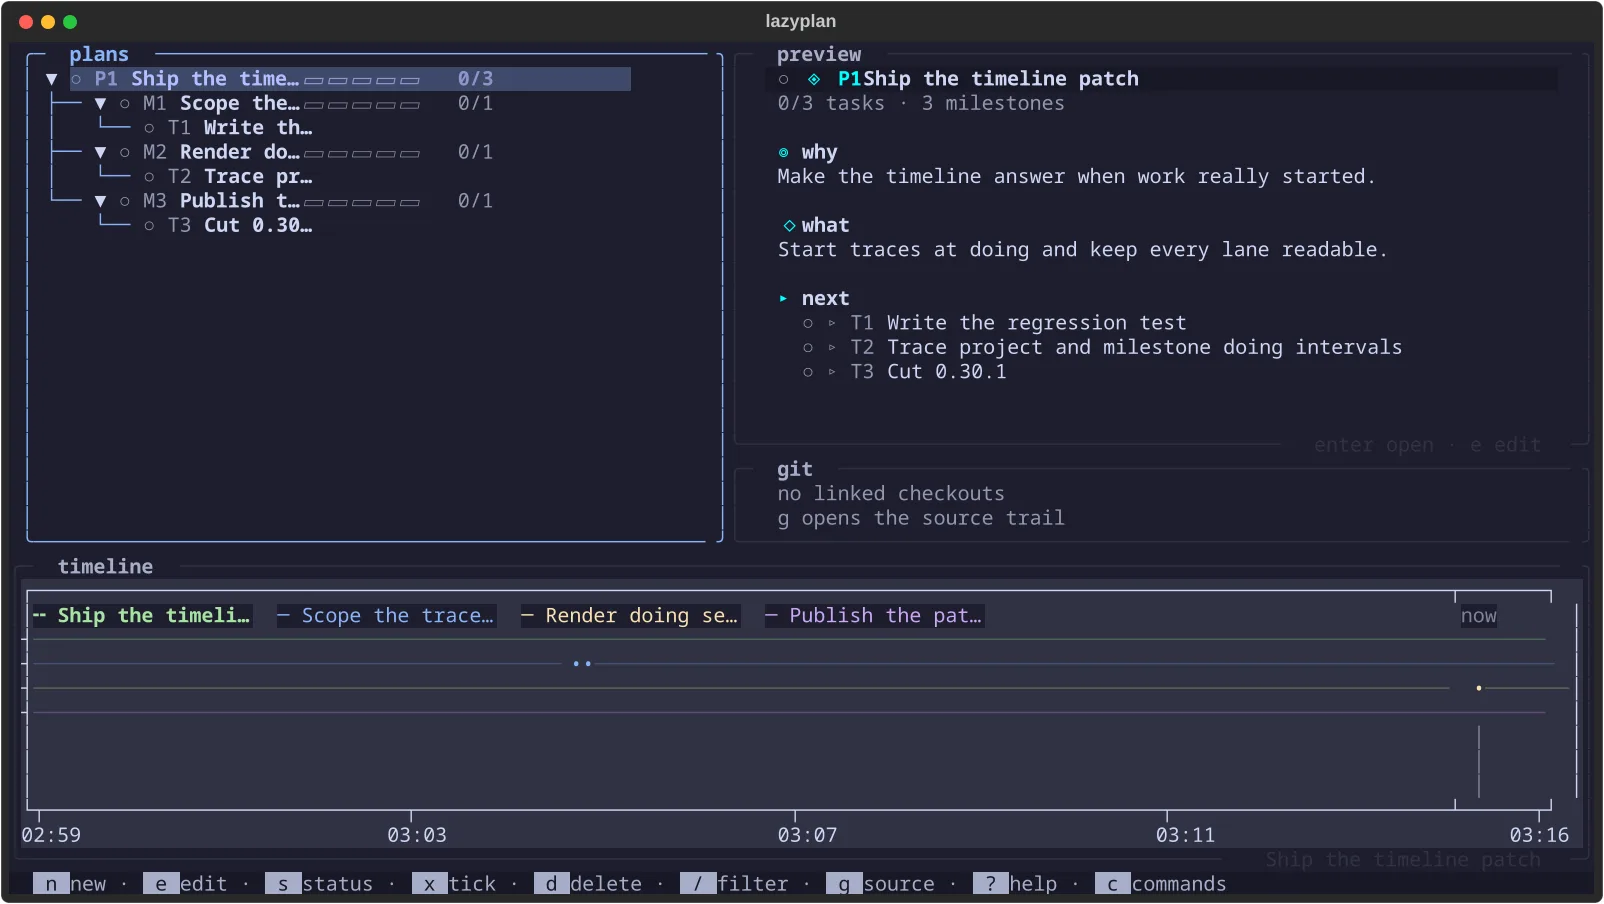
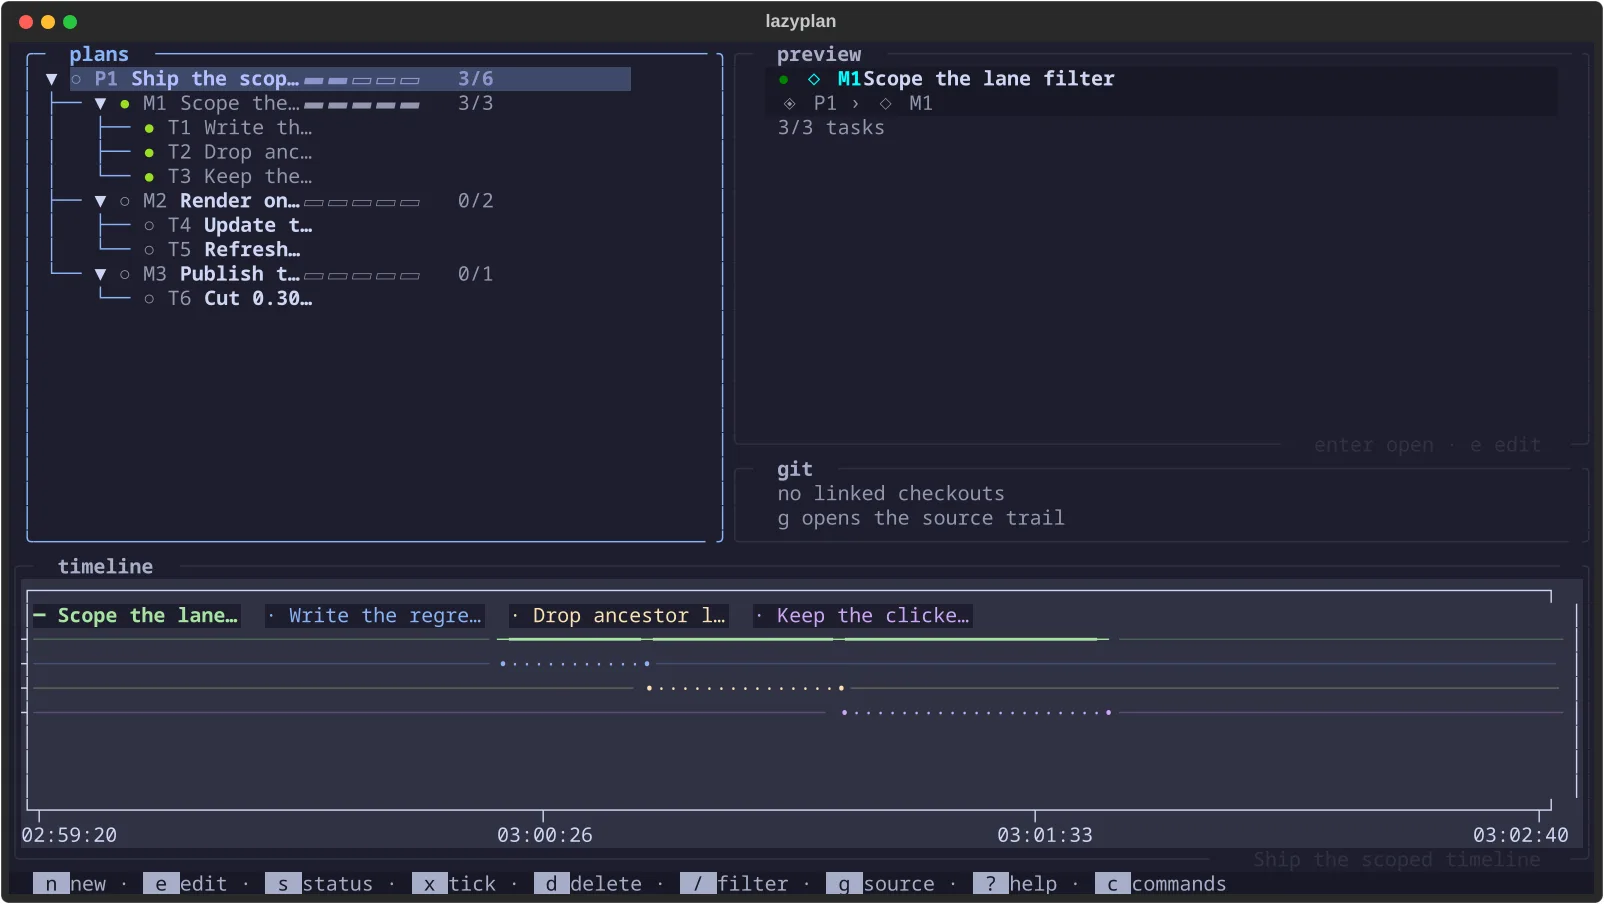
site: capture the timeline with a milestone selected

diff --git a/tools/capture-screens.py b/tools/capture-screens.py
@@ -41,7 +41,7 @@ from lazyplan.core.entities import Status  # noqa: E402
 from lazyplan.presentation.tui import create_app  # noqa: E402
 from lazyplan.presentation.tui.screens import DetailScreen, PaletteScreen  # noqa: E402
 from lazyplan.presentation.tui.screens.source import SourceScreen  # noqa: E402
-from lazyplan.services import metrics
+from lazyplan.services import metrics  # noqa: E402
 from lazyplan.store import Store  # noqa: E402
 
 SIZE = (130, 35)
@@ -159,28 +159,35 @@ def build_source_fixture(tmp: Path) -> Store:
 
 
 def build_timeline_fixture(tmp: Path) -> Store:
-    """Sequential milestones with doing intervals, a pause, and untouched work."""
+    """A plan with sequential milestones and tasks for the scoped timeline shot."""
     store = Store(str(tmp / "plan.db"))
     plan = store.add_plan(
-        "Ship the timeline patch",
-        "Start traces at doing and keep every lane readable.",
-        goal="Make the timeline answer when work really started.",
+        "Ship the scoped timeline",
+        "Show only the clicked row and its immediate children.",
+        goal="Keep the timeline focused on the work in front of you.",
     )
-    first = store.add_milestone(plan.id, "Scope the trace fix")
-    second = store.add_milestone(plan.id, "Render doing segments")
+    first = store.add_milestone(plan.id, "Scope the lane filter")
+    second = store.add_milestone(plan.id, "Render one row at a time")
     third = store.add_milestone(plan.id, "Publish the patch")
-    store.add_task(first.id, "Write the regression test")
-    store.add_task(second.id, "Trace project and milestone doing intervals")
-    store.add_task(third.id, "Cut 0.30.1")
+    regression = store.add_task(first.id, "Write the regression test")
+    drop = store.add_task(first.id, "Drop ancestor lanes")
+    bold = store.add_task(first.id, "Keep the clicked lane bold")
+    store.add_task(second.id, "Update the empty copy")
+    store.add_task(second.id, "Refresh the screenshot")
+    store.add_task(third.id, "Cut 0.30.3")
 
     def at(stamp: float, action: Callable[[], object]) -> object:
         with mock.patch("lazyplan.store.base.time.time", return_value=stamp):
             return action()
 
-    at(STAMP + 300, lambda: services.set_status(store, "milestone", first.id, Status.DOING))
-    at(STAMP + 600, lambda: services.set_status(store, "milestone", first.id, Status.DONE))
-    at(STAMP + 900, lambda: services.set_status(store, "milestone", second.id, Status.DOING))
-    at(STAMP + 1_200, lambda: services.set_status(store, "milestone", second.id, Status.DONE))
+    at(STAMP + 20, lambda: services.set_status(store, "task", regression.id, Status.DOING))
+    at(STAMP + 40, lambda: services.set_status(store, "task", regression.id, Status.DONE))
+    at(STAMP + 20, lambda: services.set_status(store, "milestone", first.id, Status.DOING))
+    at(STAMP + 40, lambda: services.set_status(store, "task", drop.id, Status.DOING))
+    at(STAMP + 65, lambda: services.set_status(store, "task", drop.id, Status.DONE))
+    at(STAMP + 65, lambda: services.set_status(store, "task", bold.id, Status.DOING))
+    at(STAMP + 100, lambda: services.set_status(store, "milestone", first.id, Status.DONE))
+    at(STAMP + 100, lambda: services.set_status(store, "task", bold.id, Status.DONE))
     return store
 
 
@@ -379,22 +386,20 @@ async def capture_theme_latte(store: Store, target: Path) -> None:
 
 
 async def capture_timeline(store: Store, target: Path) -> None:
-    """Capture the shell with a plan selected so every milestone lane is visible."""
+    """Capture the shell with a milestone selected so only its task lanes show."""
     app = create_app(str(store.path))
     async with app.run_test(size=SIZE) as pilot:
         await pilot.pause()
         tree = app.query_one("#tree", Tree)
         _expand_all(tree)
         tree.focus()
-        plans = _nodes(tree, "plan")
-        if plans:
-            tree.select_node(plans[0])
+        milestones = _nodes(tree, "milestone")
+        if milestones:
+            tree.select_node(milestones[0])
             await pilot.pause()
-            plans = _nodes(tree, "plan")
-            if plans:
-                plans[0].expand()
-                for milestone in plans[0].children:
-                    milestone.expand()
+            milestones = _nodes(tree, "milestone")
+            if milestones:
+                milestones[0].expand()
         await pilot.pause(0.5)
         app.save_screenshot(str(target))
 
@@ -630,7 +635,7 @@ SCENES: dict[str, Scene] = {
         SIZE,
         build_timeline_fixture,
         capture_timeline,
-        "lazyplan main shell with sequential milestones selected, showing doing-only timeline traces at distinct start positions and one never-started lane.",
+        "lazyplan main shell with a milestone selected, showing only that milestone and its task lanes on the timeline.",
     ),
     "lpui-detail": Scene(
         SIZE,
